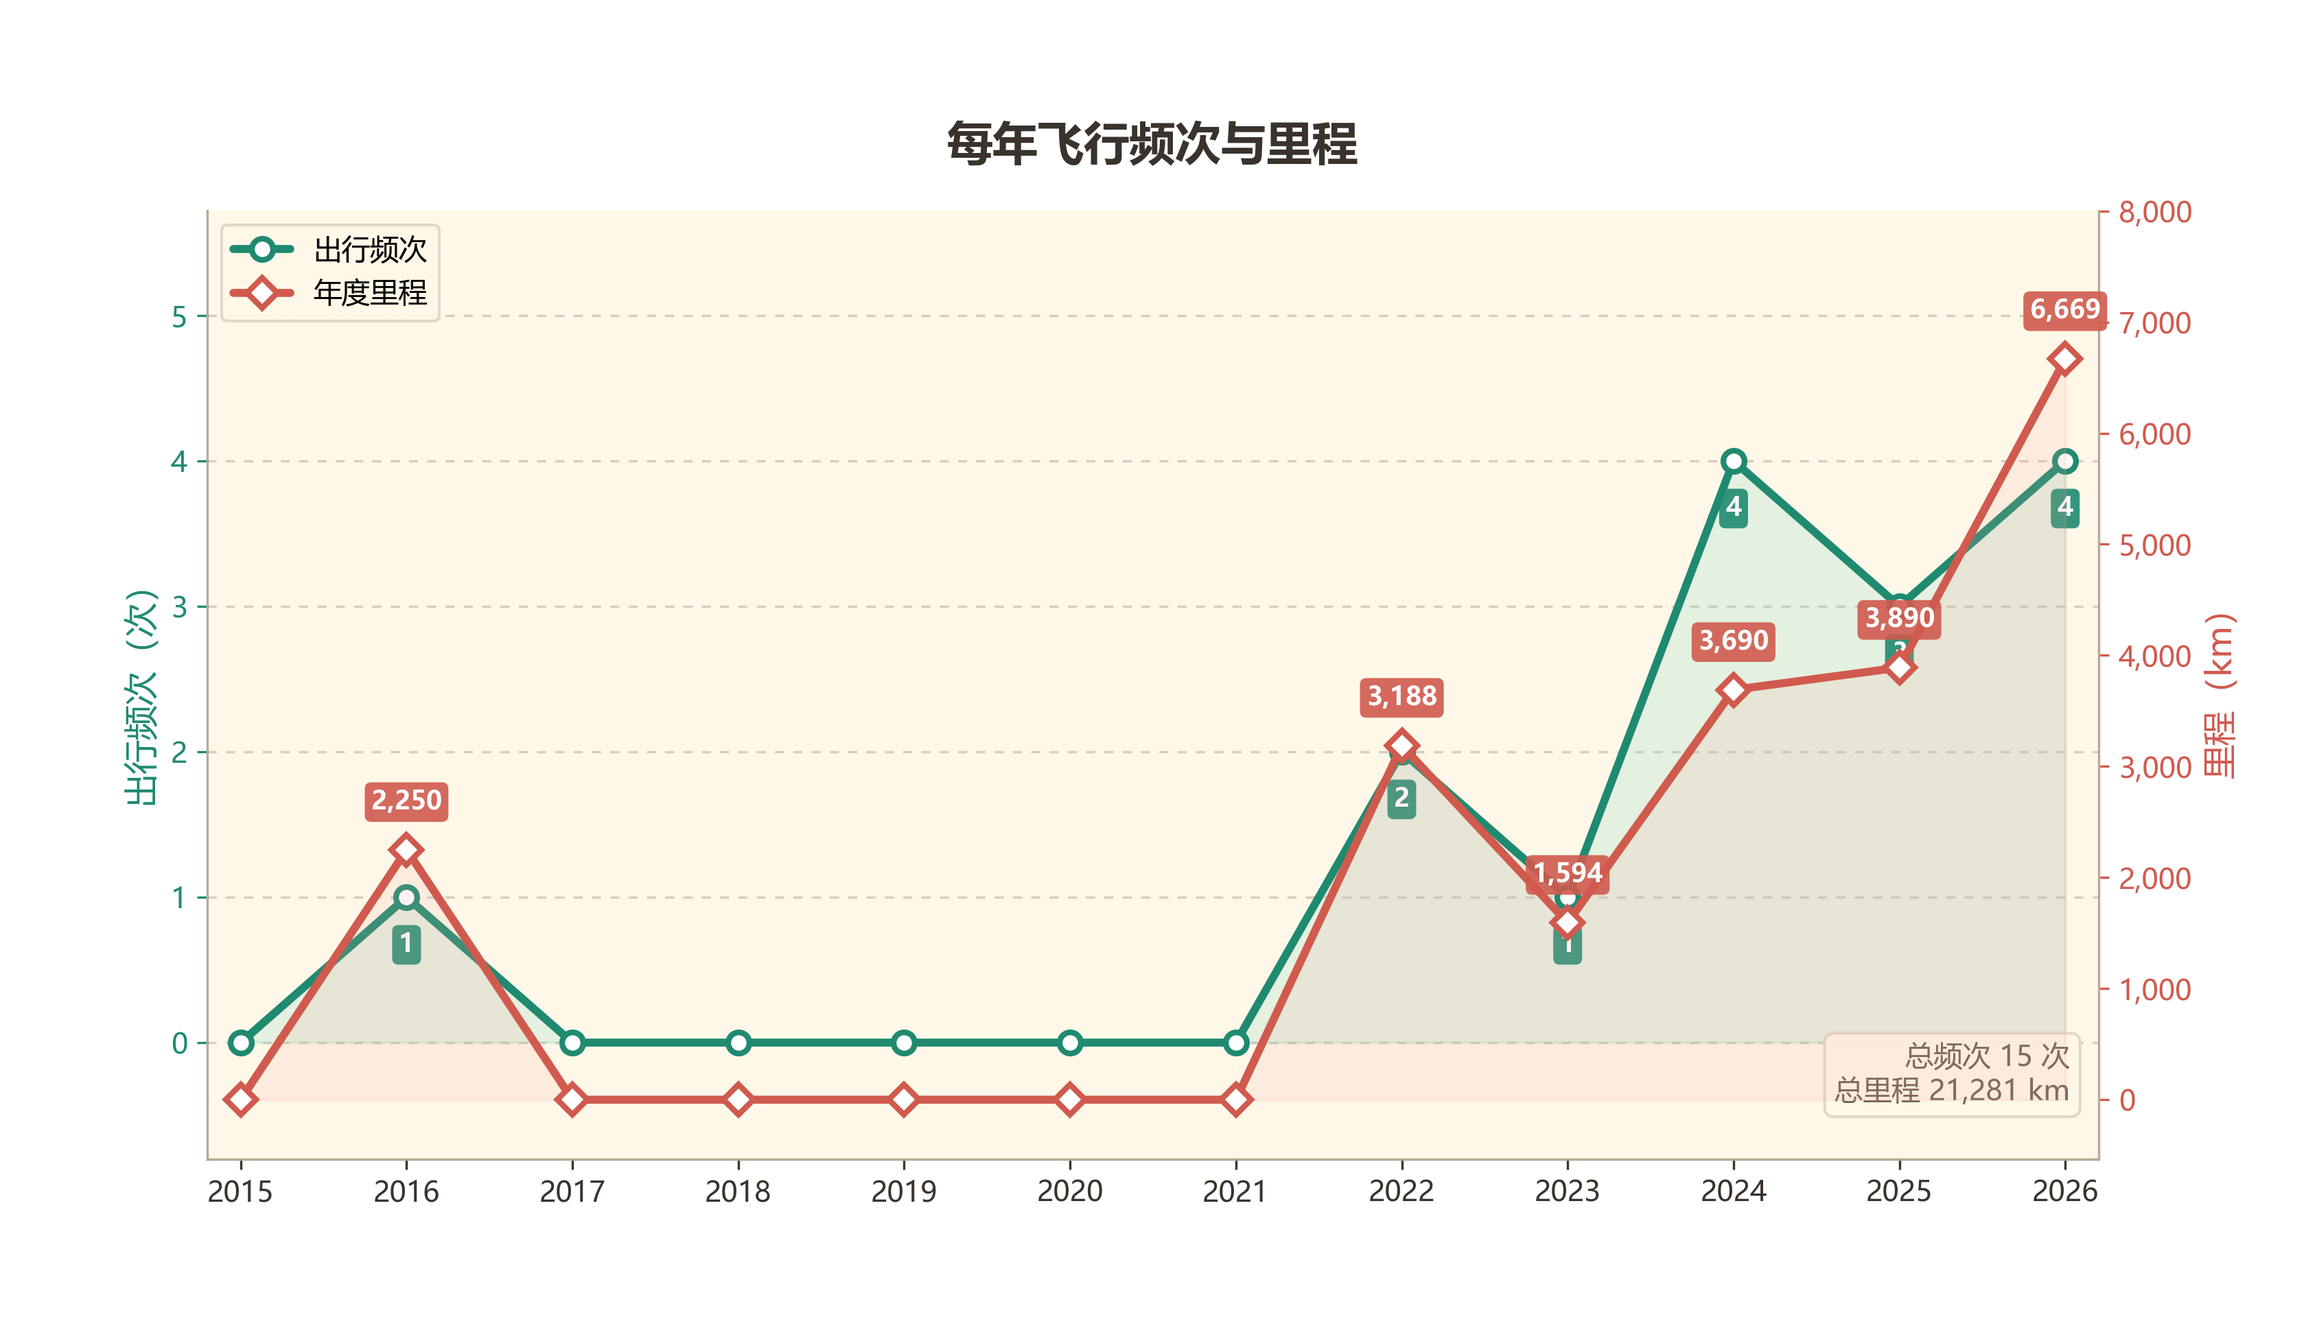
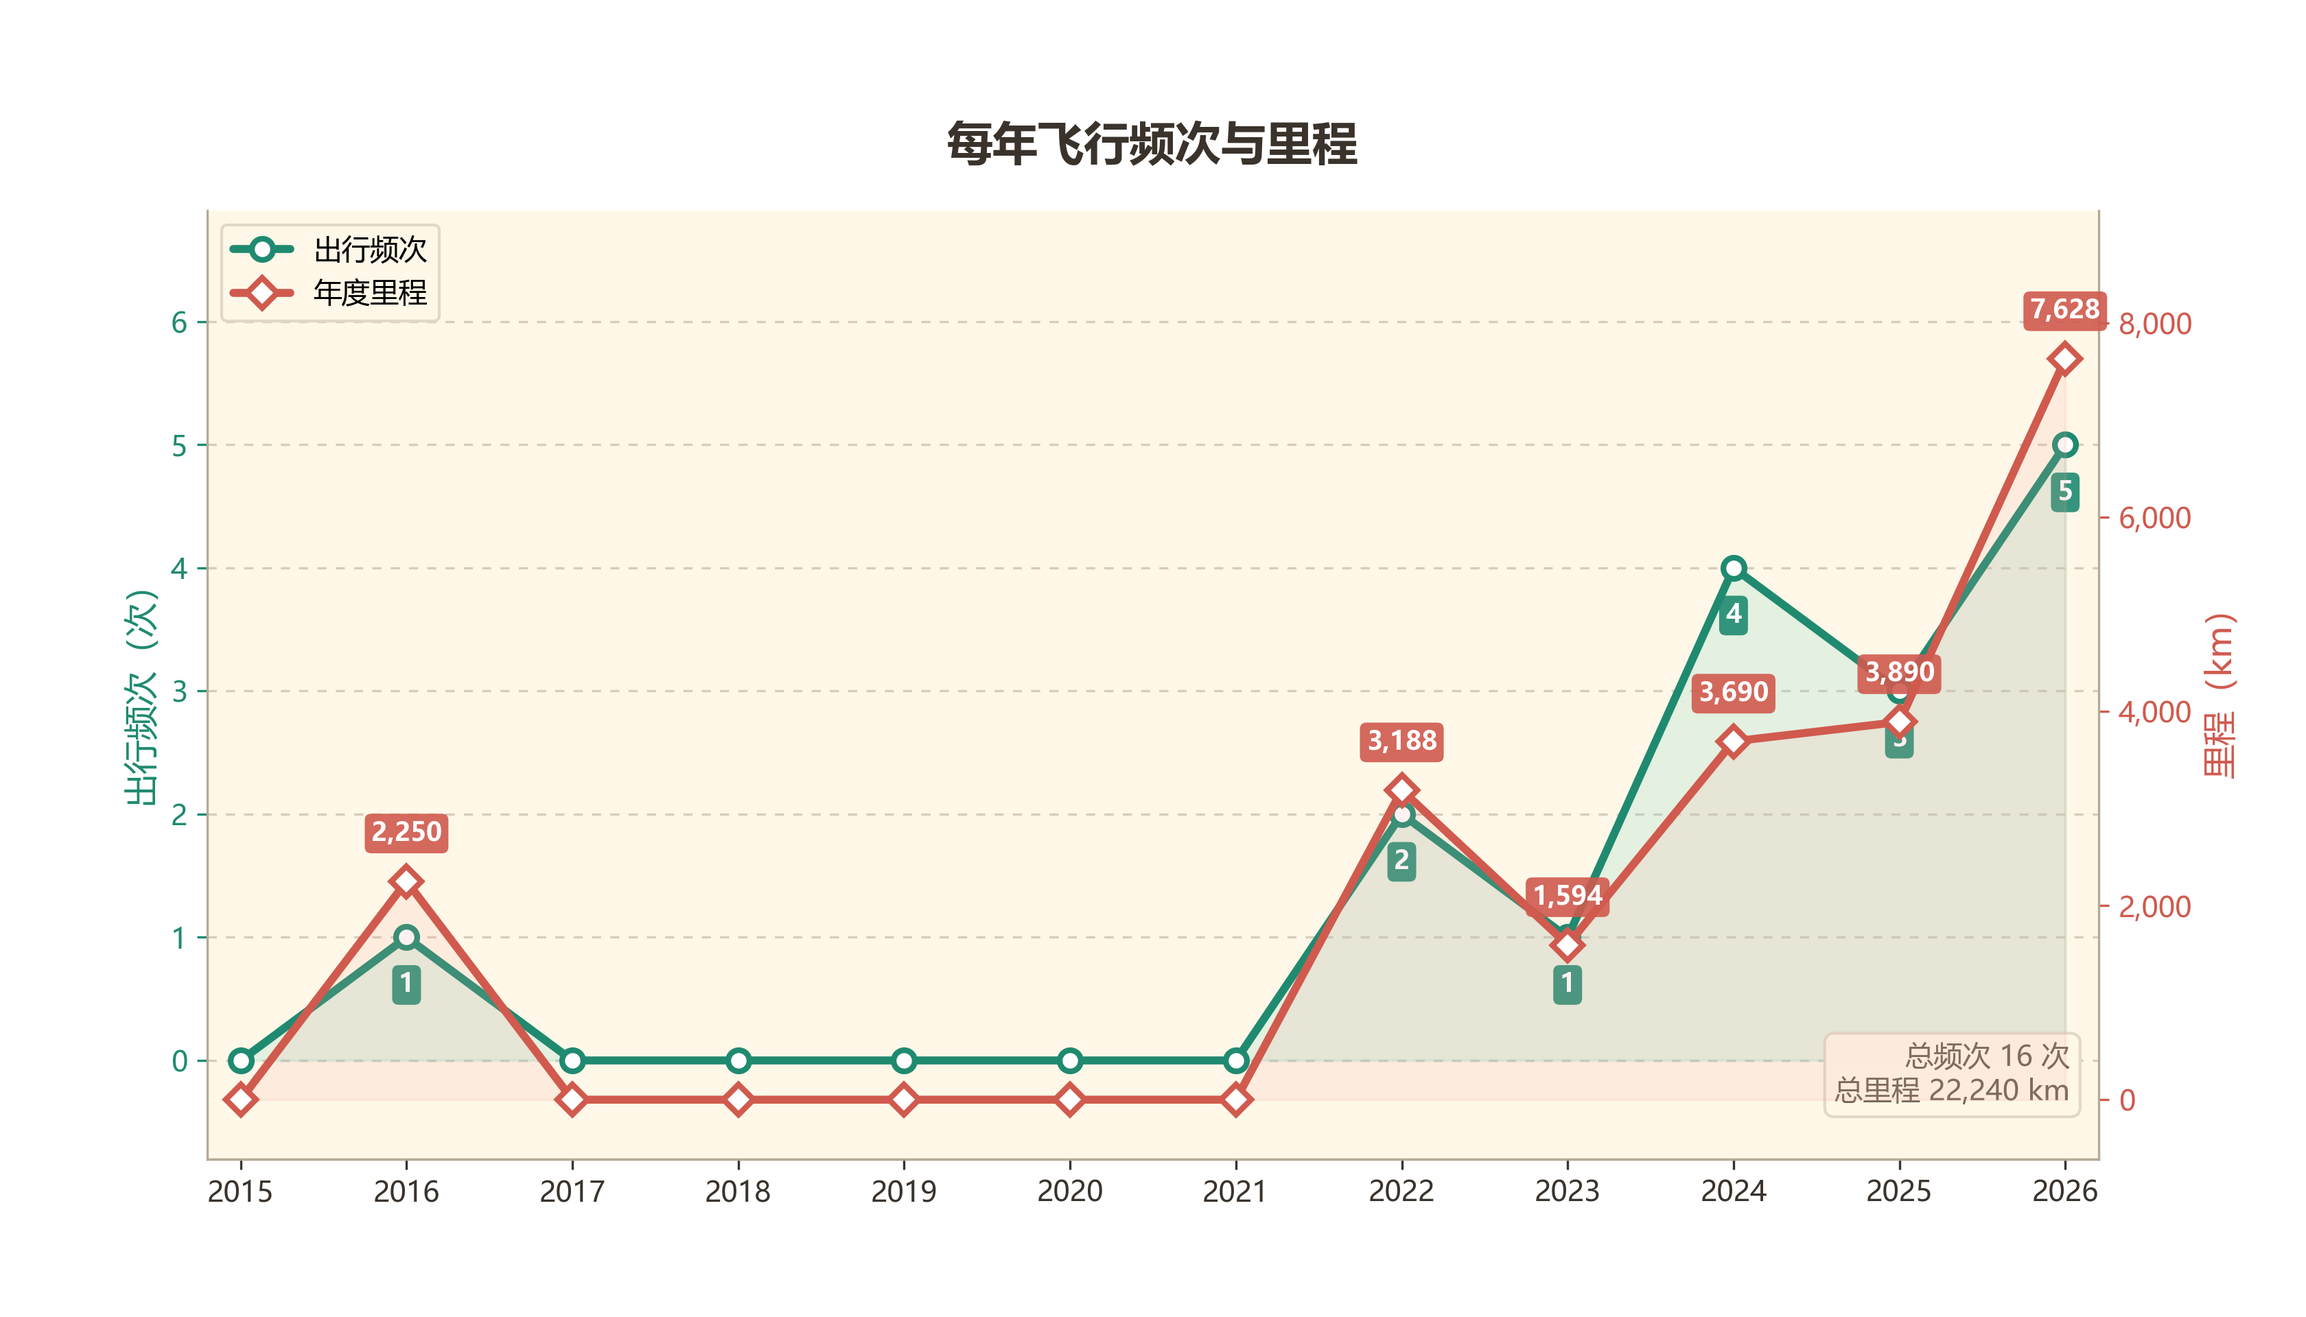
commit

diff --git a/draw.py b/draw.py
@@ -40,8 +40,8 @@ TOP_MARGIN = 0.84
 
 CITY_DATA = {
     "years": ["大学前", "2022-2023", "2024", "2025", "2026"],
-    "new_cities": [19, 2, 21, 21, 24],
-    "cumulative_cities": [19, 21, 42, 63, 87],
+    "new_cities": [19, 2, 21, 21, 25],
+    "cumulative_cities": [19, 21, 42, 63, 88],
 }
 
 

diff --git a/游记统计.md b/游记统计.md
@@ -1,18 +1,18 @@
 # 游记类别字数统计
 
-统计时间： 2026-09-02 17:25:21
+统计时间： 2026-09-03 19:46:31
 
 ## 总体统计
 
 - 文章总数： 31 篇
-- 总字数： 130.7k
-- 平均字数： 4214 字/篇
+- 总字数： 130.8k
+- 平均字数： 4218 字/篇
 
 ## 按发表年份统计
 
 | 年份 | 篇数 | 总字数 | 平均字数 |
 |------|------|--------|----------|
-| 2024 | 10 | 34060 | 3406 |
+| 2024 | 10 | 34160 | 3416 |
 | 2025 | 12 | 56100 | 4675 |
 | 2026 | 9 | 40500 | 4500 |
 
@@ -29,14 +29,14 @@
 | 7 | [“人生短短几个秋啊，不醉不罢休”：在洛阳、郑州的中秋](https://kangaroogao.com/posts/4186/) | 4k | 2024-09-19 | 2026-08-04 |
 | 8 | [潮汕初探](https://kangaroogao.com/posts/52b1/) | 1.2k | 2024-09-20 | 2026-07-12 |
 | 9 | [今古一相接，长歌怀旧游：国庆出游杂记](https://kangaroogao.com/posts/786/) | 4.7k | 2024-10-07 | 2026-07-12 |
-| 10 | [行旅杂记](https://kangaroogao.com/posts/9e84/) | 7.3k | 2024-11-15 | 2026-09-01 |
+| 10 | [行旅杂记](https://kangaroogao.com/posts/9e84/) | 7.4k | 2024-11-15 | 2026-09-03 |
 | 11 | [清明游记：枣庄、徐州、淮北](https://kangaroogao.com/posts/b857/) | 6.3k | 2025-04-10 | 2026-08-25 |
 | 12 | [小城小记1：六安](https://kangaroogao.com/posts/83be/) | 1.5k | 2025-06-24 | 2026-07-27 |
 | 13 | [北京行迹](https://kangaroogao.com/posts/1502/) | 10.5k | 2025-08-01 | 2026-08-30 |
-| 14 | [保研夏令营期间的行走](https://kangaroogao.com/posts/3321/) | 1.9k | 2025-08-06 | 2026-07-16 |
-| 15 | [大城小事2：深圳（兼记东莞）](https://kangaroogao.com/posts/a78e/) | 1.6k | 2025-08-06 | 2026-07-27 |
-| 16 | [大城小事1：广州](https://kangaroogao.com/posts/8478/) | 4.1k | 2025-08-06 | 2026-08-11 |
-| 17 | [回家路上2：泾县、福州、龙岩、赣州](https://kangaroogao.com/posts/99aa/) | 10.5k | 2025-08-06 | 2026-08-25 |
+| 14 | [大城小事2：深圳（兼记东莞）](https://kangaroogao.com/posts/a78e/) | 1.6k | 2025-08-06 | 2026-07-27 |
+| 15 | [大城小事1：广州](https://kangaroogao.com/posts/8478/) | 4.1k | 2025-08-06 | 2026-08-11 |
+| 16 | [回家路上2：泾县、福州、龙岩、赣州](https://kangaroogao.com/posts/99aa/) | 10.5k | 2025-08-06 | 2026-08-25 |
+| 17 | [保研夏令营期间的行走](https://kangaroogao.com/posts/3321/) | 1.9k | 2025-08-06 | 2026-07-16 |
 | 18 | [湛江碎影](https://kangaroogao.com/posts/a7ec/) | 6.1k | 2025-08-24 | 2026-08-23 |
 | 19 | [小城小记2：滁州、马鞍山](https://kangaroogao.com/posts/cea0/) | 3.1k | 2025-09-15 | 2026-08-04 |
 | 20 | [小城小记3：寿县、阜阳、周口、漯河、驻马店、信阳、孝感](https://kangaroogao.com/posts/e4f4/) | 7.4k | 2025-10-03 | 2026-08-25 |
@@ -89,8 +89,8 @@
 | 23 | [长安一片月，吹梦到西洲：西安一游，兼记咸阳运城](https://kangaroogao.com/posts/439b/) | 5.5k | 2024-07-15 | 2026-07-16 |
 | 24 | [湛江碎影](https://kangaroogao.com/posts/a7ec/) | 6.1k | 2025-08-24 | 2026-08-23 |
 | 25 | [清明游记：枣庄、徐州、淮北](https://kangaroogao.com/posts/b857/) | 6.3k | 2025-04-10 | 2026-08-25 |
-| 26 | [行旅杂记](https://kangaroogao.com/posts/9e84/) | 7.3k | 2024-11-15 | 2026-09-01 |
-| 27 | [小城小记3：寿县、阜阳、周口、漯河、驻马店、信阳、孝感](https://kangaroogao.com/posts/e4f4/) | 7.4k | 2025-10-03 | 2026-08-25 |
+| 26 | [小城小记3：寿县、阜阳、周口、漯河、驻马店、信阳、孝感](https://kangaroogao.com/posts/e4f4/) | 7.4k | 2025-10-03 | 2026-08-25 |
+| 27 | [行旅杂记](https://kangaroogao.com/posts/9e84/) | 7.4k | 2024-11-15 | 2026-09-03 |
 | 28 | [回家路上3：永州、柳州、来宾、贵港、玉林](https://kangaroogao.com/posts/526f/) | 8.2k | 2026-02-12 | 2026-08-25 |
 | 29 | [回家路上2：泾县、福州、龙岩、赣州](https://kangaroogao.com/posts/99aa/) | 10.5k | 2025-08-06 | 2026-08-25 |
 | 30 | [北京行迹](https://kangaroogao.com/posts/1502/) | 10.5k | 2025-08-01 | 2026-08-30 |

diff --git a/文章统计.md b/文章统计.md
@@ -1,12 +1,12 @@
 # 文章字数统计（游记 + 指定文章）
 
-统计时间： 2026-09-02 17:25:29
+统计时间： 2026-09-03 19:46:37
 
 ## 总体统计
 
 - 文章总数： 35 篇
-- 总字数： 156.0k
-- 平均字数： 4456 字/篇
+- 总字数： 156.1k
+- 平均字数： 4458 字/篇
 
 ## 按发表年份统计
 
@@ -14,7 +14,7 @@
 |------|------|--------|----------|
 | 2020 | 1 | 6100 | 6100 |
 | 2023 | 1 | 13000 | 13000 |
-| 2024 | 11 | 37460 | 3405 |
+| 2024 | 11 | 37560 | 3414 |
 | 2025 | 13 | 58900 | 4530 |
 | 2026 | 9 | 40500 | 4500 |
 
@@ -35,14 +35,14 @@
 | 11 | [“人生短短几个秋啊，不醉不罢休”：在洛阳、郑州的中秋](https://kangaroogao.com/posts/4186/) | 4k | 2024-09-19 | 2026-08-04 |
 | 12 | [潮汕初探](https://kangaroogao.com/posts/52b1/) | 1.2k | 2024-09-20 | 2026-07-12 |
 | 13 | [今古一相接，长歌怀旧游：国庆出游杂记](https://kangaroogao.com/posts/786/) | 4.7k | 2024-10-07 | 2026-07-12 |
-| 14 | [行旅杂记](https://kangaroogao.com/posts/9e84/) | 7.3k | 2024-11-15 | 2026-09-01 |
+| 14 | [行旅杂记](https://kangaroogao.com/posts/9e84/) | 7.4k | 2024-11-15 | 2026-09-03 |
 | 15 | [清明游记：枣庄、徐州、淮北](https://kangaroogao.com/posts/b857/) | 6.3k | 2025-04-10 | 2026-08-25 |
 | 16 | [小城小记1：六安](https://kangaroogao.com/posts/83be/) | 1.5k | 2025-06-24 | 2026-07-27 |
 | 17 | [北京行迹](https://kangaroogao.com/posts/1502/) | 10.5k | 2025-08-01 | 2026-08-30 |
-| 18 | [保研夏令营期间的行走](https://kangaroogao.com/posts/3321/) | 1.9k | 2025-08-06 | 2026-07-16 |
-| 19 | [大城小事2：深圳（兼记东莞）](https://kangaroogao.com/posts/a78e/) | 1.6k | 2025-08-06 | 2026-07-27 |
-| 20 | [大城小事1：广州](https://kangaroogao.com/posts/8478/) | 4.1k | 2025-08-06 | 2026-08-11 |
-| 21 | [回家路上2：泾县、福州、龙岩、赣州](https://kangaroogao.com/posts/99aa/) | 10.5k | 2025-08-06 | 2026-08-25 |
+| 18 | [大城小事2：深圳（兼记东莞）](https://kangaroogao.com/posts/a78e/) | 1.6k | 2025-08-06 | 2026-07-27 |
+| 19 | [大城小事1：广州](https://kangaroogao.com/posts/8478/) | 4.1k | 2025-08-06 | 2026-08-11 |
+| 20 | [回家路上2：泾县、福州、龙岩、赣州](https://kangaroogao.com/posts/99aa/) | 10.5k | 2025-08-06 | 2026-08-25 |
+| 21 | [保研夏令营期间的行走](https://kangaroogao.com/posts/3321/) | 1.9k | 2025-08-06 | 2026-07-16 |
 | 22 | [湛江碎影](https://kangaroogao.com/posts/a7ec/) | 6.1k | 2025-08-24 | 2026-08-23 |
 | 23 | [小城小记2：滁州、马鞍山](https://kangaroogao.com/posts/cea0/) | 3.1k | 2025-09-15 | 2026-08-04 |
 | 24 | [小城小记3：寿县、阜阳、周口、漯河、驻马店、信阳、孝感](https://kangaroogao.com/posts/e4f4/) | 7.4k | 2025-10-03 | 2026-08-25 |
@@ -98,8 +98,8 @@
 | 26 | [湛江碎影](https://kangaroogao.com/posts/a7ec/) | 6.1k | 2025-08-24 | 2026-08-23 |
 | 27 | [雷州，雷州](https://kangaroogao.com/posts/4cde/) | 6.1k | 2020-08-22 | 2026-07-16 |
 | 28 | [清明游记：枣庄、徐州、淮北](https://kangaroogao.com/posts/b857/) | 6.3k | 2025-04-10 | 2026-08-25 |
-| 29 | [行旅杂记](https://kangaroogao.com/posts/9e84/) | 7.3k | 2024-11-15 | 2026-09-01 |
-| 30 | [小城小记3：寿县、阜阳、周口、漯河、驻马店、信阳、孝感](https://kangaroogao.com/posts/e4f4/) | 7.4k | 2025-10-03 | 2026-08-25 |
+| 29 | [小城小记3：寿县、阜阳、周口、漯河、驻马店、信阳、孝感](https://kangaroogao.com/posts/e4f4/) | 7.4k | 2025-10-03 | 2026-08-25 |
+| 30 | [行旅杂记](https://kangaroogao.com/posts/9e84/) | 7.4k | 2024-11-15 | 2026-09-03 |
 | 31 | [回家路上3：永州、柳州、来宾、贵港、玉林](https://kangaroogao.com/posts/526f/) | 8.2k | 2026-02-12 | 2026-08-25 |
 | 32 | [回家路上2：泾县、福州、龙岩、赣州](https://kangaroogao.com/posts/99aa/) | 10.5k | 2025-08-06 | 2026-08-25 |
 | 33 | [北京行迹](https://kangaroogao.com/posts/1502/) | 10.5k | 2025-08-01 | 2026-08-30 |

diff --git a/source/_posts/行旅杂记.md b/source/_posts/行旅杂记.md
@@ -141,9 +141,11 @@ date: 2024-11-15 00:00:00
 
 从湛江返京时时隔十年又乘坐了 K158 次列车，在车上写了篇[《在 K158 上》](../6ecd/)，作为对今年旅行经历的回顾与展望。
 
+8月31日-9月2日回合肥进行新生报到和体检，3日返京途中到德州一游。
+
 各篇游记的简要行程安排已整理到了[《行程轨迹汇总》](../dbd5/)。
 
-至此，共计去过21个省级行政区，87个城市[^20]：
+至此，共计去过21个省级行政区，88个城市[^20]：
 - 省
   - 广东（15/21）：湛江、广州、茂名、东莞、阳江、河源、惠州、江门、佛山、中山、珠海、韶关、揭阳、潮州、深圳
   - 贵州（5/9）：贵阳、黔南、黔东南、安顺、铜仁
@@ -156,7 +158,7 @@ date: 2024-11-15 00:00:00
   - 江西（2/11）：南昌、赣州
   - 浙江（2/11）：杭州、宁波
   - 河南（7/18）：洛阳、郑州、周口、漯河、驻马店、信阳、新乡
-  - 山东（1/16）：枣庄
+  - 山东（2/16）：枣庄、德州
   - 福建（2/9）：福州、龙岩
   - 河北（4/11）：承德、保定、秦皇岛、张家口
   - 辽宁（1/14）：葫芦岛
@@ -170,11 +172,11 @@ date: 2024-11-15 00:00:00
 <figure style="text-align: center;"> <img src="https://s3.bmp.ovh/2026/08/03/siP4row6.png" alt="旅行足迹" style="display: block; margin-left: auto; margin-right: auto;width: 100%;"></figure>
 
 <div style="text-align: center; font-size: 0;">
-  <img src="https://s3.bmp.ovh/2026/08/09/DOqjPs8K.png" alt="新到的城市数量" style="width: 49%; display: inline-block;"><img src="https://s3.bmp.ovh/2026/08/09/OWirUFJJ.png" alt="累计去过的城市数量" style="width: 49%; display: inline-block;">
+  <img src="https://s3.bmp.ovh/2026/09/03/Qx1ssbcN.png" alt="新到的城市数量" style="width: 49%; display: inline-block;"><img src="https://s3.bmp.ovh/2026/09/03/hWJ7S56o.png" alt="累计去过的城市数量" style="width: 49%; display: inline-block;">
 </div>
 
 <div style="text-align: center; font-size: 0;">
-  <img src="https://s3.bmp.ovh/2026/08/23/MwAsunw5.png" alt="铁路出行里程与频次" style="width: 49%; display: inline-block;"><img src="https://s3.bmp.ovh/2026/06/15/7Gh2AXsd.png" alt="飞行里程与频次" style="width: 49%; display: inline-block;">
+  <img src="https://s3.bmp.ovh/2026/09/03/woXnAlG7.png" alt="铁路出行里程与频次" style="width: 49%; display: inline-block;"><img src="https://s3.bmp.ovh/2026/09/03/Az7Zsh6d.png" alt="飞行里程与频次" style="width: 49%; display: inline-block;">
 </div>
 
 <figure style="text-align: center;"> <img src="https://s3.bmp.ovh/2026/08/23/WI3jfaqc.png" alt="铁路路线" style="display: block; margin-left: auto; margin-right: auto;width: 100%;"></figure>
@@ -316,6 +318,8 @@ date: 2024-11-15 00:00:00
 ||北京西|广州|D901|1989|
 ||广州|湛江北|G5689|369|
 ||湛江|北京西|K158|2725|
+|2026.9|合肥|德州|K1036|732|
+||德州东|北京南|G816|314|
 {% endhideToggle %}
 
 {% hideToggle 展开车站列表 %}
@@ -389,6 +393,7 @@ date: 2024-11-15 00:00:00
 |嘉峪关|嘉峪关、嘉峪关南|
 |南京|南京南|
 |张家口|张家口、宣化北|
+|德州|德州、德州东|
 
 {% endhideToggle %}
 

diff --git a/source/_posts/藏书.md b/source/_posts/藏书.md
@@ -32,7 +32,7 @@ date: 2024-11-15 00:00:00
 《1978-2018中国优秀中篇小说》《~短篇小说》《~小小说》《~散文》
 
 - 其他
-《家》《红岩》《建水记》《围城》《活动变人形》《精神明亮的人》《一个人的村庄》《冰心作品精选》《六里庄遗事》《梁衡评点中国历史人物》《贾大山小说精选集》《湖光山色》《世道杂谈》《受戒》《丰乳肥臀》《艾青诗选》《三体》《台北人》《平凡的世界》《创业史》《文化苦旅》《白鹿原》《上学记》《老果孩》《马桥词典》《繁花》（1盗版，1批注版）《傅雷家书》《牛棚杂忆》《妞妞》《目送》《朱自清散文精选》《一句顶一万句》《城南旧事》《书海泛舟记》《苏东坡传》《教给你聪明》《中国现代名篇选读》《中国最美的散文》《精美诗歌大全集》《雅致小品》《俗世奇人》《读库》（2201-2206）《江湖丛谈》《巨龙抬头：我们的九十年代》
+《家》《红岩》《建水记》《围城》《活动变人形》《精神明亮的人》《一个人的村庄》《冰心作品精选》《六里庄遗事》《梁衡评点中国历史人物》《贾大山小说精选集》《湖光山色》《世道杂谈》《受戒》《丰乳肥臀》《艾青诗选》《三体》《台北人》《平凡的世界》《创业史》《文化苦旅》《白鹿原》《上学记》《老果孩》《马桥词典》《繁花》（1盗版，1批注版）《傅雷家书》《牛棚杂忆》《妞妞》《目送》《朱自清散文精选》《一句顶一万句》《城南旧事》《书海泛舟记》《苏东坡传》《教给你聪明》《中国现代名篇选读》《中国最美的散文》《精美诗歌大全集》《雅致小品》《俗世奇人》《读库》（2201-2206）《江湖丛谈》《巨龙抬头：我们的九十年代》《缘缘堂随笔》
 
 ## 古典
 《人间词话》《史记》《夜航船》《陶庵梦忆》《梦溪笔谈》《红楼梦》《西游记》《水浒传》《三国演义》《脂砚斋批评本红楼梦》《李卓吾批评本西游记》《金圣叹批评本水浒传》《毛宗岗批评本三国演义》《说文解字》《儒林外史》《聊斋志异》《山海经》《山海经外传》《笑林广记》《搜神记》《世说新语》《声律启蒙》《宋诗选注》《唐诗鉴赏辞典》《宋词鉴赏辞典》《唐诗宋词鉴赏大词典》《唐诗三百首》《宋词三百首》《元曲三百首》《成语三百篇》《寓言三百篇》《诗经析读》《论语别裁》《论语》（中英文版）《说文解字十二讲》《庄子今注今译》《红楼梦诗词》《唐诗选》（上册）《李商隐诗集疏注》《徐霞客游记》《李白与杜甫》《颜氏家训》

diff --git a/source/journey/index.md b/source/journey/index.md
@@ -2,7 +2,7 @@
 title: Journey
 ---
 
-- [行旅杂记](../posts/9e84/)（7.3k）
+- [行旅杂记](../posts/9e84/)（7.4k）
 - [行程轨迹汇总](../posts/dbd5/)
 
 - 常驻城市

diff --git a/读书笔记统计.md b/读书笔记统计.md
@@ -1,6 +1,6 @@
 # 读书笔记类别字数统计
 
-统计时间： 2026-09-02 17:25:38
+统计时间： 2026-09-03 19:46:46
 
 ## 总体统计
 

diff --git a/小城小记5：德州.md b/小城小记5：德州.md
@@ -1,0 +1,7 @@
+---
+title: 小城小记5：德州
+tags:
+  - 游记
+  - 小城小记
+categories: 行走足迹
+---

diff --git a/renew.md b/renew.md
@@ -997,3 +997,7 @@
 
 9.2
    1. 加 史料与史学
+
+9.3
+   1. 加缘缘堂随笔
+   2. 加德州
